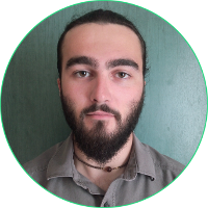
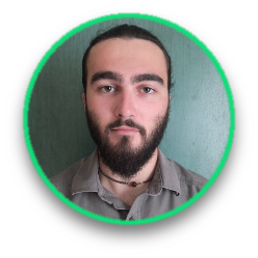
photo+ombrage
ajout d'une photo de moi en accueil close #3
ajout des ombrage sur les fleches close #5

diff --git a/main.css b/main.css
@@ -199,16 +199,16 @@ footer{
 /** --------------------------------- FORM ------------------------------- **/
 
 
-.smart-green {
+.form {
     margin-left:auto;
     margin-right:auto;
     margin-top:1.5em;
     max-width: 500px;
-}.smart-green label {
+}.form label {
     display: block;
     margin: 0px 0px 5px;
-}.smart-green input[type="text"], .smart-green input[type="email"], 
-  .smart-green textarea, .smart-green select {
+}.form input[type="text"], .form input[type="email"], 
+  .form textarea, .form select {
     color: #555;
     height: 30px;
     line-height:15px;
@@ -216,20 +216,31 @@ footer{
     border: 1px solid #00e676;
     background: #E5FFF1;
     font-family: "Roboto", sans-serif;
-}.smart-green textarea{
+}.form textarea{
     height:100px;
     padding-top: 10px;
-}.smart-green .button {
+}.form .button {
     background-color: #00e676;
-    border-radius: 5px;
-    -webkit-border-radius: 5px;
-    -moz-border-border-radius: 5px;
-    border: none;
-    padding: 10px 25px 10px 25px;
-    color: #FFF;
-    text-shadow: 1px 1px 1px #949494;
+
+    width: 8em;
+	height: 8em;
+
+    border: none;    
+
+	/* Circle */
+    -webkit-border-radius: 50% / 50%;
+    -moz-border-radius:    50% / 50%;
+    -o-border-radius:      50% / 50%;
+    border-radius:         50% / 50%;
+
+    /* Shadow */
+    -moz-box-shadow: 0px 10px 25px #555;
+    -webkit-box-shadow: 0px 10px 25px #555;
+    -o-box-shadow: 0px 10px 25px #555;
+    box-shadow: 0px 10px 25px #555;
+
     font-family: "Roboto", sans-serif;
-}.smart-green .button:hover {
+}.form .button:hover {
     opacity: 0.6;
 }
 

diff --git a/index.html b/index.html
@@ -12,7 +12,7 @@
 		<script src="scripts/jQuery.scrollSpeed.js"></script>
 		<script src="scripts/script.js"></script>
 
-		<title>Portfolio</title>
+		<title>Julián Núñez López - Portfolio</title>
 	</head>
 		
 	<body>
@@ -175,11 +175,11 @@
 			<div class='container content centerBlock'>
 				<h1>Contact</h1>
 				<div class='inline2'>
-					<form action="" method="post" class="smart-green">
+					<form action="" method="post" class="form">
    		 				<label><input id="name" type="text" name="name" placeholder=" Votre Nom" /></label>
 					    <label><input id="email" type="email" name="email" placeholder=" Votre Adresse Email" /></label>
 					    <label><textarea id="message" name="message" placeholder=" Votre Message"></textarea></label> 
-					    <label><input type="button" class="button" value="Envoyer" /></label>    
+					    <label><input type="button" class="button lightText" value="Envoyer" /></label>    
 					</form>
 				</div>
 				<div class='inline2'>
